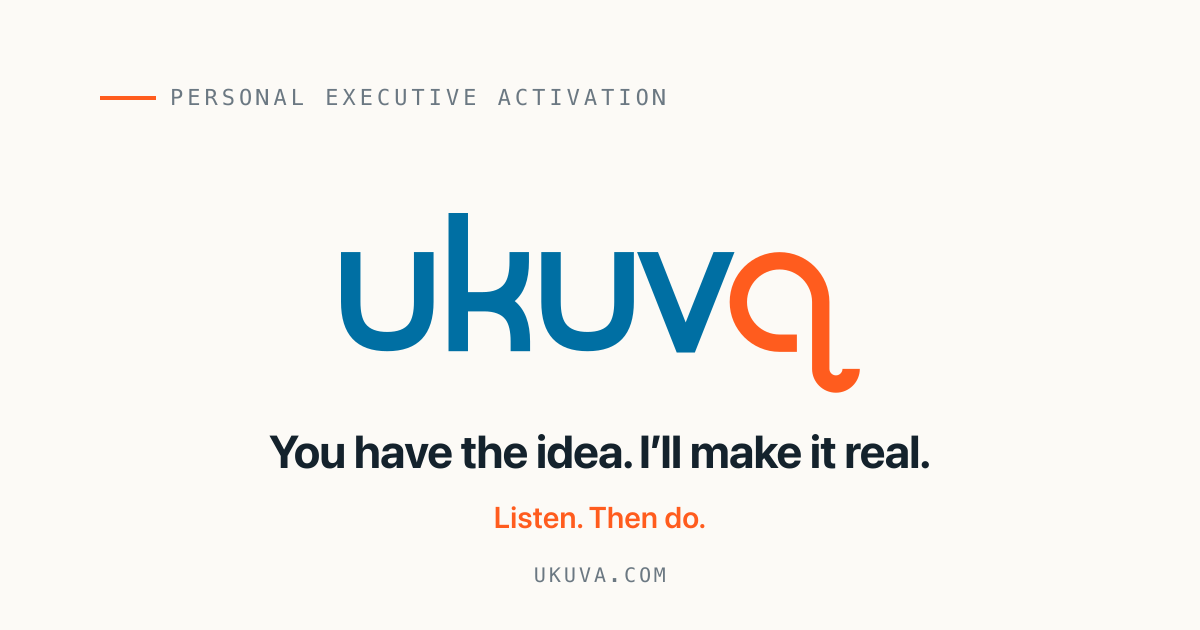
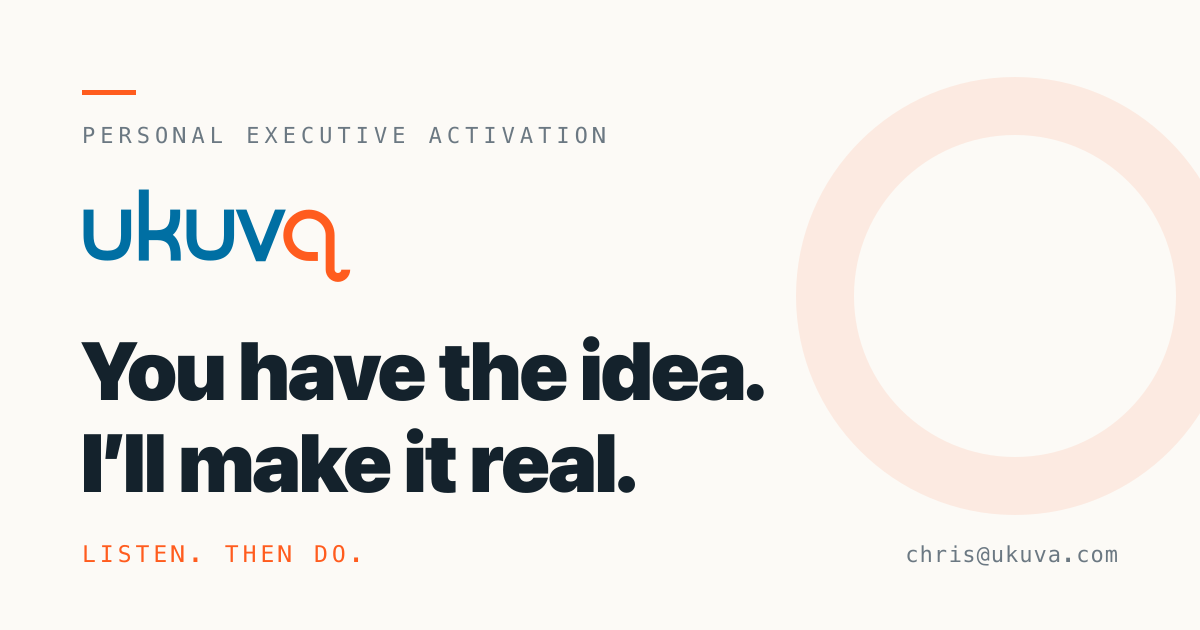
Clean internal links to clean URLs + refresh og-image to final card
- internal links now point to / and /approach (drop .html redirect hop)
- canonical/og:url for approach -> https://ukuva.com/approach
- regenerate og-image.png: left-aligned headline, chris@ukuva.com, ring motif

diff --git a/public/approach.html b/public/approach.html
@@ -5,10 +5,10 @@
 <meta name="viewport" content="width=device-width, initial-scale=1">
 <title>Ukuva: The Approach</title>
 <meta name="description" content="How Ukuva works: the three-phase activation model, engagement principles, and the Operational Readiness Blueprint.">
-<link rel="canonical" href="https://ukuva.com/approach.html">
+<link rel="canonical" href="https://ukuva.com/approach">
 <meta property="og:type" content="website">
 <meta property="og:site_name" content="Ukuva">
-<meta property="og:url" content="https://ukuva.com/approach.html">
+<meta property="og:url" content="https://ukuva.com/approach">
 <meta property="og:title" content="Ukuva: The Approach">
 <meta property="og:description" content="How Ukuva works: the three-phase activation model, engagement principles, and the Operational Readiness Blueprint.">
 <meta property="og:image" content="https://ukuva.com/assets/og-image.png">
@@ -71,11 +71,11 @@
 <!-- ===================== HEADER ===================== -->
 <header class="site-header">
   <div class="site-header__inner">
-    <a class="brand" href="index.html" aria-label="Ukuva home"><img src="assets/ukuva_wordmark.svg" alt="Ukuva"></a>
+    <a class="brand" href="/" aria-label="Ukuva home"><img src="assets/ukuva_wordmark.svg" alt="Ukuva"></a>
     <nav class="nav" aria-label="Primary">
       <div class="nav__links">
         <span class="nav__item">
-          <a class="nav__link" href="approach.html">Approach <svg class="caret" viewBox="0 0 10 10" fill="none"><path d="M2 4l3 3 3-3" stroke="currentColor" stroke-width="1.4"/></svg></a>
+          <a class="nav__link" href="/approach">Approach <svg class="caret" viewBox="0 0 10 10" fill="none"><path d="M2 4l3 3 3-3" stroke="currentColor" stroke-width="1.4"/></svg></a>
           <div class="dropdown">
             <a href="#overview"><span class="dd-t">Overview</span><span class="dd-d">What activation means</span></a>
             <a href="#how"><span class="dd-t">How it works</span><span class="dd-d">The three-phase model</span></a>
@@ -84,12 +84,12 @@
             <a href="#execution"><span class="dd-t">Execution</span><span class="dd-d">The point: I go and do it</span></a>
           </div>
         </span>
-        <span class="nav__item"><a class="nav__link" href="index.html#cases">Case studies</a></span>
-        <span class="nav__item"><a class="nav__link" href="index.html#why">Why Ukuva</a></span>
+        <span class="nav__item"><a class="nav__link" href="/#cases">Case studies</a></span>
+        <span class="nav__item"><a class="nav__link" href="/#why">Why Ukuva</a></span>
       </div>
       <div class="nav__utils">
         <a class="lang" href="#" aria-label="Language">EN</a>
-        <a class="btn btn--primary btn--sm" href="index.html#contact">Book a call</a>
+        <a class="btn btn--primary btn--sm" href="/#contact">Book a call</a>
       </div>
     </nav>
     <button class="hamburger" aria-label="Menu" aria-expanded="false"><span></span><span></span><span></span></button>
@@ -105,8 +105,8 @@
   <a href="#blueprint">The Blueprint</a>
   <a href="#execution">Execution</a>
   <a href="#faq">FAQ</a>
-  <a href="index.html#cases">Case studies</a>
-  <a class="btn btn--primary btn--lg" href="index.html#contact">Book the free call</a>
+  <a href="/#cases">Case studies</a>
+  <a class="btn btn--primary btn--lg" href="/#contact">Book the free call</a>
 </div>
 
 <!-- ===================== PAGE HERO ===================== -->
@@ -333,7 +333,7 @@
         <span class="eyebrow">Phase 03 · the point</span>
         <h2 style="color:#fff;margin-top:var(--space-3);">Then I go and do it.</h2>
         <p class="lead" style="color:var(--on-deep);margin-top:var(--space-6);">Everything else is preparation. Execution is the work you actually came for: I take the plan into the real world and deliver it on your behalf, with my name on whether it ships.</p>
-        <a class="btn btn--primary btn--lg" href="index.html#contact" style="margin-top:var(--space-8);">Start with the free call &rarr;</a>
+        <a class="btn btn--primary btn--lg" href="/#contact" style="margin-top:var(--space-8);">Start with the free call &rarr;</a>
       </div>
       <ul class="feature-list" style="margin-top:var(--space-2);">
         <li style="color:var(--on-deep);"><strong style="color:#fff;">I do the work, not direct it.</strong> Senior enough to make the calls and move without being managed.</li>
@@ -389,8 +389,8 @@
     <div class="cta-strip">
       <h2>Worth a 30-minute conversation?</h2>
       <div style="display:flex;gap:var(--space-4);flex-wrap:wrap;">
-        <a class="btn btn--primary btn--lg" href="index.html#contact">Book the free call &rarr;</a>
-        <a class="btn btn--outline btn--lg" href="index.html">Back to overview</a>
+        <a class="btn btn--primary btn--lg" href="/#contact">Book the free call &rarr;</a>
+        <a class="btn btn--outline btn--lg" href="/">Back to overview</a>
       </div>
     </div>
   </div>
@@ -416,7 +416,7 @@
       <div class="footer__col">
         <h4>Engage</h4>
         <ul>
-          <li><a href="index.html#contact">Book a call</a></li>
+          <li><a href="/#contact">Book a call</a></li>
           <li><a href="mailto:chris@ukuva.com">chris@ukuva.com</a></li>
           <li><a href="#" target="_blank" rel="noopener">LinkedIn</a></li>
         </ul>

diff --git a/public/index.html b/public/index.html
@@ -117,17 +117,17 @@
 <!-- ===================== HEADER ===================== -->
 <header class="site-header">
   <div class="site-header__inner">
-    <a class="brand" href="index.html" aria-label="Ukuva home"><img src="assets/ukuva_wordmark.svg" alt="Ukuva"></a>
+    <a class="brand" href="/" aria-label="Ukuva home"><img src="assets/ukuva_wordmark.svg" alt="Ukuva"></a>
     <nav class="nav" aria-label="Primary">
       <div class="nav__links">
         <span class="nav__item">
-          <a class="nav__link" href="approach.html">Approach <svg class="caret" viewBox="0 0 10 10" fill="none"><path d="M2 4l3 3 3-3" stroke="currentColor" stroke-width="1.4"/></svg></a>
+          <a class="nav__link" href="/approach">Approach <svg class="caret" viewBox="0 0 10 10" fill="none"><path d="M2 4l3 3 3-3" stroke="currentColor" stroke-width="1.4"/></svg></a>
           <div class="dropdown">
-            <a href="approach.html#overview"><span class="dd-t">Overview</span><span class="dd-d">What activation means</span></a>
-            <a href="approach.html#how"><span class="dd-t">How it works</span><span class="dd-d">The three-phase model</span></a>
-            <a href="approach.html#principles"><span class="dd-t">Engagement principles</span><span class="dd-d">Three clients. No equity.</span></a>
-            <a href="approach.html#blueprint"><span class="dd-t">The Blueprint</span><span class="dd-d">The plan that serves execution</span></a>
-            <a href="approach.html#execution"><span class="dd-t">Execution</span><span class="dd-d">The point: I go and do it</span></a>
+            <a href="/approach#overview"><span class="dd-t">Overview</span><span class="dd-d">What activation means</span></a>
+            <a href="/approach#how"><span class="dd-t">How it works</span><span class="dd-d">The three-phase model</span></a>
+            <a href="/approach#principles"><span class="dd-t">Engagement principles</span><span class="dd-d">Three clients. No equity.</span></a>
+            <a href="/approach#blueprint"><span class="dd-t">The Blueprint</span><span class="dd-d">The plan that serves execution</span></a>
+            <a href="/approach#execution"><span class="dd-t">Execution</span><span class="dd-d">The point: I go and do it</span></a>
           </div>
         </span>
         <span class="nav__item"><a class="nav__link" href="#how">How it works</a></span>
@@ -146,10 +146,10 @@
 <!-- mobile nav -->
 <div class="mobile-nav" aria-label="Mobile menu">
   <button class="mobile-nav__close" aria-label="Close">&times;</button>
-  <a href="approach.html">Approach</a>
-  <a class="m-sub" href="approach.html#how">How it works</a>
-  <a class="m-sub" href="approach.html#principles">Engagement principles</a>
-  <a class="m-sub" href="approach.html#blueprint">The Blueprint</a>
+  <a href="/approach">Approach</a>
+  <a class="m-sub" href="/approach#how">How it works</a>
+  <a class="m-sub" href="/approach#principles">Engagement principles</a>
+  <a class="m-sub" href="/approach#blueprint">The Blueprint</a>
   <a href="#cases">Case studies</a>
   <a href="#why">Why Ukuva</a>
   <a class="btn btn--primary btn--lg" href="#contact">Book the free call</a>
@@ -351,7 +351,7 @@
     <p class="lead" data-reveal style="max-width:46ch;margin:var(--space-6) auto 0;">Book the free 30-minute discovery call. You share the idea or the challenge; we work out together whether it&rsquo;s worth doing. No charge, no pitch, no obligation.</p>
     <div class="contact__cta" data-reveal>
       <a class="btn btn--primary btn--lg" href="#" target="_blank" rel="noopener">Book the call &rarr;</a>
-      <a class="btn btn--outline btn--lg" href="approach.html">See the full approach</a>
+      <a class="btn btn--outline btn--lg" href="/approach">See the full approach</a>
     </div>
     <a class="contact__email" href="mailto:chris@ukuva.com">chris@ukuva.com</a>
     <p class="contact__note" data-reveal>No charge · No pitch deck · Just a conversation</p>
@@ -369,7 +369,7 @@
       <div class="footer__col">
         <h4>Explore</h4>
         <ul>
-          <li><a href="approach.html">Approach</a></li>
+          <li><a href="/approach">Approach</a></li>
           <li><a href="#how">How it works</a></li>
           <li><a href="#cases">Case studies</a></li>
           <li><a href="#why">Why Ukuva</a></li>

diff --git a/public/404.html b/public/404.html
@@ -28,7 +28,7 @@
     <p>The page you were after is not here. It may have moved, or the link was incomplete. Let's get you back on track.</p>
     <div class="nf__cta">
       <a class="btn btn--primary btn--lg" href="/">Back to home</a>
-      <a class="btn btn--outline btn--lg" href="/approach.html">See the approach</a>
+      <a class="btn btn--outline btn--lg" href="/approach">See the approach</a>
     </div>
   </main>
 </body>
